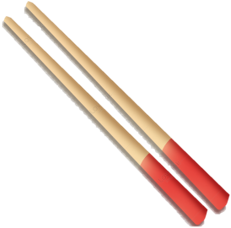
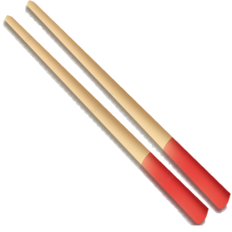
Update game

Changed region(s): [[0.0, 0.0, 1.0, 1.0], [0.6364, 0.4912, 0.6667, 0.5219], [0.6061, 0.4605, 0.6364, 0.4912]]

diff --git a/data.js b/data.js
@@ -1,1 +1,1 @@
-{"project": [null,null,[[0,true,false,false,false,false,false,false,false,false],[1,true,false,false,false,false,false,false,false,false],[2,true,false,false,false,false,false,false,false,false],[3,false,true,true,true,true,true,true,true,false],[4,false,true,true,true,true,true,true,true,false]],[["t0",3,false,[],0,0,null,null,[],false,false,758952807745472,[],null],["t1",0,false,[],0,0,null,null,[],false,false,304194040986138,[],null,[0,0,0,1,1,600,600,10000,1]],["t2",4,false,[880117637316250,258682065947000],1,0,null,[["Default",5,false,1,0,false,161490361910187,[["images/picture-sheet0.png",42643,0,0,267,169,1,0.4719101190567017,0.4970414340496063,[],[-0.2734081149101257,-0.4319526255130768,-1.192092895507813e-007,-0.4852071404457092,0.2396999001502991,-0.3786984384059906,0.3108618855476379,-4.470348358154297e-007,0.217228889465332,0.3431955873966217,-1.192092895507813e-007,0.485207587480545,-0.2659171223640442,0.4201185405254364,-0.4419476091861725,-4.470348358154297e-007],0]]]],[["DragDrop",5,526848452367719]],false,false,719864591994140,[],null],["t3",4,false,[367455491155574,708974555632314],1,0,null,[["Default",5,false,1,0,false,791466204812675,[["images/picture2-sheet0.png",31757,0,0,231,228,1,0.4978354871273041,0.5131579041481018,[],[-4.76837158203125e-007,-0.1491228938102722,0.1515155136585236,1.192092895507813e-007,-4.76837158203125e-007,0.1315791010856628,-0.06493547558784485,0.06578910350799561,-0.1168834865093231,1.192092895507813e-007],0]]]],[["DragDrop",5,728666820223775]],false,false,539551775043601,[],null],["t4",4,false,[419271850889746,145424484009355],1,0,null,[["Default",5,false,1,0,false,182404753608381,[["images/picture3-sheet0.png",44260,0,0,239,137,1,0.5104602575302124,0.4671532809734345,[],[-0.4476987719535828,-0.4379561841487885,-2.384185791015625e-007,-0.4525547921657562,0.447698712348938,-0.4379561841487885,0.4184097647666931,-0.007299274206161499,0.3221757411956787,0.2116787135601044,-2.384185791015625e-007,0.5036497116088867,-0.3305442631244659,0.2262777388095856,-0.4393305480480194,-0.007299274206161499],0]]]],[["DragDrop",5,108483363206075]],false,false,856085363938727,[],null],["t5",4,false,[978312823957790,630210443195443],1,0,null,[["Default",5,false,1,0,false,312982767207911,[["images/picture4-sheet0.png",16001,0,0,163,127,1,0.4846625626087189,0.5196850299835205,[],[0.03067442774772644,0.3149609565734863,4.470348358154297e-007,-0.007874011993408203,0.1472394168376923,0.08661395311355591,0.006134450435638428,-0.007874011993408203,0.4969324171543121,0.3543309569358826,4.470348358154297e-007,0.1732279658317566,-0.1656445562839508,-0.07086601853370667,-0.1104295551776886,-0.007874011993408203],0]]]],[["DragDrop",5,832456752016560]],false,false,180601912341172,[],null],["t6",4,false,[633130684145986,296045401637706],1,0,null,[["Default",5,false,1,0,false,998468661068699,[["images/picture5-sheet0.png",172336,0,0,562,226,1,0.5035586953163147,0.5840708017349243,[],[-0.3647686839103699,-0.3008848130702972,-0.001779675483703613,-0.5575221180915833,0.4217082858085632,-0.4469028115272522,0.4359433054924011,-0.004424810409545898,0.3131673336029053,0.1725661754608154,-0.001779675483703613,0.3805311918258667,-0.3807826936244965,0.3362832069396973,-0.4964412450790405,-0.004424810409545898],0]]]],[["DragDrop",5,743023328663409]],false,false,580973116541272,[],null],["t7",4,false,[273569312819035,120019885290389],1,0,null,[["Default",5,false,1,0,false,480535873952502,[["images/picture6-sheet0.png",18031,0,0,309,242,1,0.5016181468963623,0.5,[],[-0.2815531492233276,-0.2190079987049103,0.3203878402709961,-0.2727270126342773,-0.01294514536857605,0,0.05825287103652954,-0.06198298931121826,-0.003236144781112671,-0.02066099643707275,-0.3333331346511841,0.2851240038871765,-0.1391581594944,0],0]]]],[["DragDrop",5,285756855063493]],false,false,144544888486671,[],null],["t8",4,false,[412029288252766,199894164066487],1,0,null,[["Default",5,false,1,0,false,148366762921232,[["images/picture7-sheet0.png",52498,0,0,161,188,1,0.4968944191932678,0.5159574747085571,[],[-0.3850934207439423,-0.3297874927520752,-0.006211429834365845,-0.5000000596046448,0.4906835556030273,-0.4255319833755493,0.3540375828742981,0.3031915426254273,-0.006211429834365845,0.4734045267105103,-0.3291923999786377,0.2765955328941345,-0.484472006559372,-0.005319476127624512],0]]]],[["DragDrop",5,859029176529969]],false,false,398822271926673,[],null],["t9",4,false,[457779110546885,975947945891977],1,0,null,[["Default",5,false,1,0,false,400784691550442,[["images/picture8-sheet0.png",26521,0,0,70,181,1,1.028571486473084,0.5027624368667603,[],[-0.8285714983940125,-0.3204424381256104,-0.05714249610900879,0.01657456159591675,-0.05714249610900879,-0.02209943532943726,-0.9714285731315613,0.3701655864715576,-1.00000011920929,-0.005524426698684692],0]]]],[["DragDrop",5,307916876839526]],false,false,166756719572038,[],null],["t10",4,false,[553123457011088,416470327016144],1,0,null,[["Default",5,false,1,0,false,950831044915499,[["images/picture9-sheet0.png",61405,0,0,266,187,1,0.5037593841552734,0.5026738047599793,[],[-0.2819553911685944,-0.4010698199272156,-0.003759384155273438,-0.4919786155223846,0.2781956195831299,-0.4010698199272156,0.4849626421928406,-0.00534781813621521,0.2218046188354492,0.3155081868171692,-0.003759384155273438,0.4866312146186829,-0.2368423938751221,0.331551194190979,-0.4962405860424042,-0.00534781813621521],0]]]],[["DragDrop",5,243118845726311]],false,false,851911368548480,[],null],["t11",4,false,[272918215863493,320261006038002],1,0,null,[["Default",5,false,1,0,false,686301692185555,[["images/picture10-sheet0.png",103833,0,0,160,350,1,0.4937500059604645,0.4942857027053833,[],[-0.425000011920929,-0.1942856907844544,0,-0.491428554058075,0.4249999821186066,-0.1942856907844544,0.4187500178813934,2.980232238769531e-007,0.4374999701976776,0.2000002861022949,0,0.4971432685852051,-0.4125000238418579,0.1885712742805481,-0.46875,2.980232238769531e-007],0]]]],[["DragDrop",5,282929515939813]],false,false,938012944477692,[],null],["t12",4,false,[597997625599359,285558642374357],1,0,null,[["Default",5,false,1,0,false,549388361556138,[["images/picture11-sheet0.png",39040,0,0,178,167,1,0.5,0.5029940009117127,[],[-0.4382022023200989,-0.473053902387619,0,-0.4910179972648621,0.3202250003814697,-0.3473049998283386,0.4157299995422363,-0.005988001823425293,0.1910110116004944,0.2035930156707764,0,0.4730539917945862,-0.3314610123634338,0.3532930016517639,-0.4438202083110809,-0.005988001823425293],0]]]],[["DragDrop",5,431435294502538]],false,false,232355410705703,[],null],["t13",4,false,[],0,0,null,[["Default",5,false,1,0,false,928679940544440,[["images/đồuống2-sheet0.png",337253,0,0,842,519,1,0.5,0.5009633898735046,[],[],0]]]],[],false,false,562976183525877,[],null],["t14",4,false,[],0,0,null,[["Default",5,false,1,0,false,680313411329266,[["images/doan2-sheet0.png",181727,0,0,555,260,1,0.50090092420578,0.5,[],[],0]]]],[],false,false,367976890709774,[],null],["t15",2,false,[],0,0,null,null,[],false,false,471340663003044,[],null,[1]],["t16",4,false,[],0,0,null,[["Default",5,false,1,0,false,908470058693323,[["images/drop1-sheet0.png",2324,0,0,554,706,1,0.5,0.5,[],[],0]]]],[],false,false,951040031261666,[],null],["t17",4,false,[],0,0,null,[["Default",5,false,1,0,false,307940948290142,[["images/sprite-sheet0.png",878,0,0,250,250,1,0.5,0.5,[],[],0]]]],[],false,false,100898516773176,[],null],["t18",4,false,[],0,0,null,[["Default",5,false,1,0,false,457826516703132,[["images/sprite-sheet0.png",878,0,0,250,250,1,0.5,0.5,[],[],0]]]],[],false,false,599232031842195,[],null],["t19",1,false,[],0,0,null,null,[],false,false,403400636331800,[],null,[]],["t20",4,false,[],0,0,null,[["Default",5,false,1,0,false,967463786888508,[["images/sprite-sheet0.png",878,0,0,250,250,1,0.5,0.5,[],[],0]]]],[],false,false,971871722701439,[],null],["t21",4,false,[],0,0,null,[["Default",5,false,1,0,false,334375490575475,[["images/drop4-sheet0.png",1634,0,0,554,706,1,0.5,0.5,[],[],0]]]],[],false,false,799054697084983,[],null],["t22",4,false,[],0,0,null,[["Default",5,false,1,0,false,139900385488893,[["images/drop2-sheet0.png",1624,0,0,552,704,1,0.5,0.5,[],[],0]]]],[],false,false,855535730701749,[],null],["t23",4,false,[],0,0,null,[["Default",5,false,1,0,false,813898504579601,[["images/drop2-sheet0.png",1624,0,0,552,704,1,0.5,0.5,[],[],0]]]],[],false,false,107494145794795,[],null],["t24",4,false,[],0,0,null,[["Default",5,false,1,0,false,189306315590653,[["images/drop2-sheet0.png",1624,0,0,552,704,1,0.5,0.5,[],[],0]]]],[],false,false,464055983102478,[],null],["t25",4,false,[],0,0,null,[["Default",5,false,1,0,false,829555271164630,[["images/drop2-sheet0.png",1624,0,0,552,704,1,0.5,0.5,[],[],0]]]],[],false,false,185359933300704,[],null],["t26",4,false,[],0,0,null,[["Default",5,false,1,0,false,358537103234280,[["images/drop2-sheet0.png",1624,0,0,552,704,1,0.5,0.5,[],[],0]]]],[],false,false,948495603532129,[],null],["t27",4,false,[],0,0,null,[["Default",5,false,1,0,false,146386921051832,[["images/drop2-sheet0.png",1624,0,0,552,704,1,0.5,0.5,[],[],0]]]],[],false,false,806094551044494,[],null],["t28",4,false,[],0,0,null,[["Default",5,false,1,0,false,492313599937822,[["images/drop2-sheet0.png",1624,0,0,552,704,1,0.5,0.5,[],[],0]]]],[],false,false,702584297661413,[],null],["t29",4,false,[],0,0,null,[["Default",5,false,1,0,false,913613186286233,[["images/drop2-sheet0.png",1624,0,0,552,704,1,0.5,0.5,[],[],0]]]],[],false,false,804774259817326,[],null],["t30",4,false,[],0,0,null,[["Default",5,false,1,0,false,311484323061630,[["images/drop2-sheet0.png",1624,0,0,552,704,1,0.5,0.5,[],[],0]]]],[],false,false,103535011186286,[],null],["t31",4,false,[],0,0,null,[["Default",5,false,1,0,false,963727945313815,[["images/backgroundsango-sheet0.png",1209154,0,0,900,600,1,0.5,0.5,[],[],0]]]],[],false,false,359538620993692,[],null],["t32",4,true,[],0,0,null,null,[],false,false,634277683134452,[],null],["t33",4,true,[],0,0,null,null,[],false,false,393079002617090,[],null]],[[32,2,3,4,5,6,7],[33,11,12,8,9,10]],[["Layout 1",1280,900,false,"Event sheet 1",655722941916398,[["Layer 0",0,898724898300914,true,[255,255,255],false,1,1,1,false,false,1,0,0,[[[179,3,0,912,96,0,0,1,0,0,0,0,[]],0,5,[],[],["Xếp Hình Đúng Ô",0,"bold italic 48pt Times New Roman","rgb(0,0,0)",1,1,0,0,0]],[[192,79,0,161,57,0,0,1,0,0,0,0,[]],0,0,[],[],["Đồ để ăn",0,"bold italic 26pt Times New Roman","rgb(0,0,0)",1,1,0,0,0]],[[855,79,0,221,57,0,0,1,0,0,0,0,[]],0,1,[],[],["Đồ để uống",0,"bold italic 26pt Times New Roman","rgb(0,0,0)",1,1,0,0,0]],[[966,300.5337219238281,0,606,343,0,0,1,0.5,0.5009633898735046,0,0,[]],13,18,[],[],[0,"Default",0,1]],[[330.9585571289063,299.5,0,646,338,0,0,1,0.50090092420578,0.5,0,0,[]],14,2,[],[],[0,"Default",0,1]],[[110,211,0,120,120,0,0,1,0.5,0.5,0,0,[]],16,11,[],[],[0,"Default",0,1]],[[331,210,0,120,120,0,0,1,0.5,0.5,0,0,[]],21,19,[],[],[0,"Default",0,1]],[[552,217,0,120,120,0,0,1,0.5,0.5,0,0,[]],22,20,[],[],[0,"Default",0,1]],[[339,365,0,120,120,0,0,1,0.5,0.5,0,0,[]],23,21,[],[],[0,"Default",0,1]],[[113,361,0,120,120,0,0,1,0.5,0.5,0,0,[]],24,22,[],[],[0,"Default",0,1]],[[751,205,0,81,120,0,0,1,0.5,0.5,0,0,[]],25,23,[],[],[0,"Default",0,1]],[[1189,202,0,120,120,0,0,1,0.5,0.5,0,0,[]],26,24,[],[],[0,"Default",0,1]],[[749,402,0,120,120,0,0,1,0.5,0.5,0,0,[]],27,25,[],[],[0,"Default",0,1]],[[1039,201,0,120,120,0,0,1,0.5,0.5,0,0,[]],28,26,[],[],[0,"Default",0,1]],[[1189,397,0,66,120,0,0,1,0.5,0.5,0,0,[]],29,27,[],[],[0,"Default",0,1]],[[566,366,0,120,120,0,0,1,0.5,0.5,0,0,[]],30,28,[],[],[0,"Default",0,1]],[[352,800,0,140,140,0,0,1,0.4719101190567017,0.4970414340496063,0,0,[]],2,4,[[352],[800]],[[0,1]],[0,"Default",0,1]],[[1168,603,0,140,140,0,0,1,0.5104602575302124,0.4671532809734345,0,0,[]],4,8,[[1168],[603]],[[0,1]],[0,"Default",0,1]],[[1152,787,0,140,140,0,0,1,0.4846625626087189,0.5196850299835205,0,0,[]],5,9,[[1152],[787]],[[0,1]],[0,"Default",0,1]],[[759,617,0,140,140,0,0,1,0.5035586953163147,0.5840708017349243,0,0,[]],6,10,[[759],[617]],[[0,1]],[0,"Default",0,1]],[[633,800,0,140,140,0,0,1,0.5016181468963623,0.5,0,0,[]],7,12,[[633],[800]],[[0,1]],[0,"Default",0,1]],[[95,800,0,140,140,0,0,1,0.4968944191932678,0.5159574747085571,0,0,[]],8,13,[[95],[800]],[[0,1]],[0,"Default",0,1]],[[1019.371398925781,602.5690307617188,0,79,145,0,0,1,1.028571486473084,0.5027624368667603,0,0,[]],9,14,[[1006],[590]],[[0,1]],[0,"Default",0,1]],[[894,786,0,140,140,0,0,1,0.5,0.5029940009117127,0,0,[]],12,17,[[894],[786]],[[0,1]],[0,"Default",0,1]],[[129,611,0,140,140,0,0,1,0.4978354871273041,0.5131579041481018,0,0,[]],3,7,[[113],[606]],[[0,1]],[0,"Default",0,1]],[[323,604,0,140,140,0,0,1,0.5037593841552734,0.5026738047599793,0,0,[]],10,15,[[319],[614]],[[0,1]],[0,"Default",0,1]],[[539.9249877929688,622.9315185546875,0,93,132,0,0,1,0.4937500059604645,0.4942857027053833,0,0,[]],11,16,[[537],[620]],[[0,1]],[0,"Default",0,1]]],[]]],[],[]]],[["Event sheet 1",[[0,null,false,null,970990872926353,[[3,6,"DragDrop",1,false,false,false,582097770037676,false]],[],[[0,null,false,null,190124576332166,[[3,7,null,0,false,false,false,104728027653413,false,[[4,14]]]],[[3,8,null,691361322121649,false,[[0,[20,16,9,false,null]],[0,[20,16,10,false,null]]]]]],[0,null,false,null,673313847945380,[[-1,11,null,0,false,false,false,953832082854237,false]],[[3,8,null,886951718774461,false,[[0,[21,3,false,null,0]],[0,[21,3,false,null,1]]]]]]]],[0,null,false,null,734637655399008,[[10,6,"DragDrop",1,false,false,false,461499334079926,false]],[],[[0,null,false,null,250869704309603,[[10,7,null,0,false,false,false,762955184262769,false,[[4,13]]]],[[10,8,null,209554297420482,false,[[0,[20,28,9,false,null]],[0,[20,28,10,false,null]]]]]],[0,null,false,null,768250771643389,[[-1,11,null,0,false,false,false,838652032784414,false]],[[10,8,null,768438700044835,false,[[0,[21,10,false,null,0]],[0,[21,10,false,null,1]]]]]]]],[0,null,false,null,309609349798172,[[11,6,"DragDrop",1,false,false,false,562055891833956,false]],[],[[0,null,false,null,817157672926987,[[11,7,null,0,false,false,false,241689097883913,false,[[4,13]]]],[[11,8,null,463419418043000,false,[[0,[20,25,9,false,null]],[0,[20,25,10,false,null]]]]]],[0,null,false,null,572452552915291,[[-1,11,null,0,false,false,false,408963911157685,false]],[[11,8,null,396101502506572,false,[[0,[21,11,false,null,0]],[0,[21,11,false,null,1]]]]]]]],[0,null,false,null,848708069813266,[[12,6,"DragDrop",1,false,false,false,860016918875358,false]],[],[[0,null,false,null,406312476548632,[[12,7,null,0,false,false,false,113289550536941,false,[[4,13]]]],[[12,8,null,422585234374957,false,[[0,[20,26,9,false,null]],[0,[20,26,10,false,null]]]]]],[0,null,false,null,700993184988899,[[-1,11,null,0,false,false,false,407314049888027,false]],[[12,8,null,935034596204761,false,[[0,[21,12,false,null,0]],[0,[21,12,false,null,1]]]]]]]],[0,null,false,null,724506709230646,[[4,6,"DragDrop",1,false,false,false,647091907665451,false]],[],[[0,null,false,null,876425736656037,[[4,7,null,0,false,false,false,371461801133465,false,[[4,14]]]],[[4,8,null,685617068370687,false,[[0,[20,23,9,false,null]],[0,[20,23,10,false,null]]]]]],[0,null,false,null,586941122091467,[[-1,11,null,0,false,false,false,878711108736855,false]],[[4,8,null,575320261223562,false,[[0,[21,4,false,null,0]],[0,[21,4,false,null,1]]]]]]]],[0,null,false,null,889054752102766,[[8,6,"DragDrop",1,false,false,false,692901317066006,false]],[],[[0,null,false,null,292917744775832,[[8,7,null,0,false,false,false,546264470491652,false,[[4,13]]]],[[8,8,null,914115192432545,false,[[0,[20,27,9,false,null]],[0,[20,27,10,false,null]]]]]],[0,null,false,null,879375375215325,[[-1,11,null,0,false,false,false,187103075354118,false]],[[8,8,null,659098443675095,false,[[0,[21,8,false,null,0]],[0,[21,8,false,null,1]]]]]]]],[0,null,false,null,716296743806171,[[9,6,"DragDrop",1,false,false,false,703699901445686,false]],[],[[0,null,false,null,710182661991418,[[9,7,null,0,false,false,false,457449532100054,false,[[4,13]]]],[[9,8,null,424051160524779,false,[[0,[20,29,9,false,null]],[0,[20,29,10,false,null]]]]]],[0,null,false,null,675774674776890,[[-1,11,null,0,false,false,false,886376214606075,false]],[[9,8,null,251925091665636,false,[[0,[21,9,false,null,0]],[0,[21,9,false,null,1]]]]]]]],[0,null,false,null,790872838112720,[[7,6,"DragDrop",1,false,false,false,258528994082912,false]],[],[[0,null,false,null,984527786139764,[[7,7,null,0,false,false,false,994010433045702,false,[[4,14]]]],[[7,8,null,357754343054797,false,[[0,[20,30,9,false,null]],[0,[20,30,10,false,null]]]]]],[0,null,false,null,104473239441574,[[-1,11,null,0,false,false,false,782147673978540,false]],[[7,8,null,852819218200357,false,[[0,[21,7,false,null,0]],[0,[21,7,false,null,1]]]]]]]],[0,null,false,null,127754446316323,[[6,6,"DragDrop",1,false,false,false,892956287655900,false]],[],[[0,null,false,null,431439392937544,[[6,7,null,0,false,false,false,924226480428215,false,[[4,14]]]],[[6,8,null,619733542860601,false,[[0,[20,21,9,false,null]],[0,[20,21,10,false,null]]]]]],[0,null,false,null,439655496510447,[[-1,11,null,0,false,false,false,943760134255609,false]],[[6,8,null,386025795331151,false,[[0,[21,6,false,null,0]],[0,[21,6,false,null,1]]]]]]]],[0,null,false,null,391357610510859,[[2,6,"DragDrop",1,false,false,false,659160905074319,false]],[],[[0,null,false,null,631201453976430,[[2,7,null,0,false,false,false,858497610801738,false,[[4,14]]]],[[2,8,null,746749319260713,false,[[0,[20,22,9,false,null]],[0,[20,22,10,false,null]]]]]],[0,null,false,null,915665053311782,[[-1,11,null,0,false,false,false,149505561352001,false]],[[2,8,null,692146501858266,false,[[0,[21,2,false,null,0]],[0,[21,2,false,null,1]]]]]]]],[0,null,false,null,544110807781374,[[5,6,"DragDrop",1,false,false,false,974162365388125,false]],[],[[0,null,false,null,606232519284765,[[5,7,null,0,false,false,false,576636380443288,false,[[4,14]]]],[[5,8,null,247272588599945,false,[[0,[20,24,9,false,null]],[0,[20,24,10,false,null]]]]]],[0,null,false,null,523807477415852,[[-1,11,null,0,false,false,false,152339524135142,false]],[[5,8,null,813137081209495,false,[[0,[21,5,false,null,0]],[0,[21,5,false,null,1]]]]]]]],[0,null,false,null,248263112490861,[[13,12,null,1,false,false,false,533602617081012,false]],[[1,13,null,465391595395895,false,[[2,["music",true]],[3,0],[0,[0,10]],[1,[2,""]]]]]]]]],[],"media/",false,1280,900,4,true,true,true,"1.0.0.0",true,false,4,0,31,false,true,1,true,"New project",0,[]]}
+{"project": [null,null,[[0,true,false,false,false,false,false,false,false,false],[1,true,false,false,false,false,false,false,false,false],[2,true,false,false,false,false,false,false,false,false],[3,false,true,true,true,true,true,true,true,false],[4,false,true,true,true,true,true,true,true,false]],[["t0",3,false,[],0,0,null,null,[],false,false,758952807745472,[],null],["t1",0,false,[],0,0,null,null,[],false,false,304194040986138,[],null,[0,0,0,1,1,600,600,10000,1]],["t2",4,false,[880117637316250,258682065947000],1,0,null,[["Default",5,false,1,0,false,161490361910187,[["images/picture-sheet0.png",42643,0,0,267,169,1,0.4719101190567017,0.4970414340496063,[],[-0.2734081149101257,-0.4319526255130768,-1.192092895507813e-007,-0.4852071404457092,0.2396999001502991,-0.3786984384059906,0.3108618855476379,-4.470348358154297e-007,0.217228889465332,0.3431955873966217,-1.192092895507813e-007,0.485207587480545,-0.2659171223640442,0.4201185405254364,-0.4419476091861725,-4.470348358154297e-007],0]]]],[["DragDrop",5,526848452367719]],false,false,719864591994140,[],null],["t3",4,false,[367455491155574,708974555632314],1,0,null,[["Default",5,false,1,0,false,791466204812675,[["images/picture2-sheet0.png",31780,0,0,232,232,1,0.4956896603107452,0.5129310488700867,[],[0.002145349979400635,-0.1488960385322571,0.1536613404750824,0.0002269744873046875,0.002145349979400635,0.131805956363678,-0.06278964877128601,0.06601595878601074,-0.1147376596927643,0.0002269744873046875],0]]]],[["DragDrop",5,728666820223775]],false,false,539551775043601,[],null],["t4",4,false,[419271850889746,145424484009355],1,0,null,[["Default",5,false,1,0,false,182404753608381,[["images/picture3-sheet0.png",44260,0,0,239,137,1,0.5104602575302124,0.4671532809734345,[],[-0.4476987719535828,-0.4379561841487885,-2.384185791015625e-007,-0.4525547921657562,0.447698712348938,-0.4379561841487885,0.4184097647666931,-0.007299274206161499,0.3221757411956787,0.2116787135601044,-2.384185791015625e-007,0.5036497116088867,-0.3305442631244659,0.2262777388095856,-0.4393305480480194,-0.007299274206161499],0]]]],[["DragDrop",5,108483363206075]],false,false,856085363938727,[],null],["t5",4,false,[978312823957790,630210443195443],1,0,null,[["Default",5,false,1,0,false,312982767207911,[["images/picture4-sheet0.png",16001,0,0,163,127,1,0.4846625626087189,0.5196850299835205,[],[0.03067442774772644,0.3149609565734863,4.470348358154297e-007,-0.007874011993408203,0.1472394168376923,0.08661395311355591,0.006134450435638428,-0.007874011993408203,0.4969324171543121,0.3543309569358826,4.470348358154297e-007,0.1732279658317566,-0.1656445562839508,-0.07086601853370667,-0.1104295551776886,-0.007874011993408203],0]]]],[["DragDrop",5,832456752016560]],false,false,180601912341172,[],null],["t6",4,false,[633130684145986,296045401637706],1,0,null,[["Default",5,false,1,0,false,998468661068699,[["images/picture5-sheet0.png",172336,0,0,562,226,1,0.5035586953163147,0.5840708017349243,[],[-0.3647686839103699,-0.3008848130702972,-0.001779675483703613,-0.5575221180915833,0.4217082858085632,-0.4469028115272522,0.4359433054924011,-0.004424810409545898,0.3131673336029053,0.1725661754608154,-0.001779675483703613,0.3805311918258667,-0.3807826936244965,0.3362832069396973,-0.4964412450790405,-0.004424810409545898],0]]]],[["DragDrop",5,743023328663409]],false,false,580973116541272,[],null],["t7",4,false,[273569312819035,120019885290389],1,0,null,[["Default",5,false,1,0,false,480535873952502,[["images/picture6-sheet0.png",18031,0,0,309,242,1,0.5016181468963623,0.5,[],[-0.2815531492233276,-0.2190079987049103,0.3203878402709961,-0.2727270126342773,-0.01294514536857605,0,0.05825287103652954,-0.06198298931121826,-0.003236144781112671,-0.02066099643707275,-0.3333331346511841,0.2851240038871765,-0.1391581594944,0],0]]]],[["DragDrop",5,285756855063493]],false,false,144544888486671,[],null],["t8",4,false,[412029288252766,199894164066487],1,0,null,[["Default",5,false,1,0,false,148366762921232,[["images/picture7-sheet0.png",52498,0,0,161,188,1,0.4968944191932678,0.5159574747085571,[],[-0.3850934207439423,-0.3297874927520752,-0.006211429834365845,-0.5000000596046448,0.4906835556030273,-0.4255319833755493,0.3540375828742981,0.3031915426254273,-0.006211429834365845,0.4734045267105103,-0.3291923999786377,0.2765955328941345,-0.484472006559372,-0.005319476127624512],0]]]],[["DragDrop",5,859029176529969]],false,false,398822271926673,[],null],["t9",4,false,[457779110546885,975947945891977],1,0,null,[["Default",5,false,1,0,false,400784691550442,[["images/picture8-sheet0.png",26521,0,0,70,181,1,1.028571486473084,0.5027624368667603,[],[-0.8285714983940125,-0.3204424381256104,-0.05714249610900879,0.01657456159591675,-0.05714249610900879,-0.02209943532943726,-0.9714285731315613,0.3701655864715576,-1.00000011920929,-0.005524426698684692],0]]]],[["DragDrop",5,307916876839526]],false,false,166756719572038,[],null],["t10",4,false,[553123457011088,416470327016144],1,0,null,[["Default",5,false,1,0,false,950831044915499,[["images/picture9-sheet0.png",61405,0,0,266,187,1,0.5037593841552734,0.5026738047599793,[],[-0.2819553911685944,-0.4010698199272156,-0.003759384155273438,-0.4919786155223846,0.2781956195831299,-0.4010698199272156,0.4849626421928406,-0.00534781813621521,0.2218046188354492,0.3155081868171692,-0.003759384155273438,0.4866312146186829,-0.2368423938751221,0.331551194190979,-0.4962405860424042,-0.00534781813621521],0]]]],[["DragDrop",5,243118845726311]],false,false,851911368548480,[],null],["t11",4,false,[272918215863493,320261006038002],1,0,null,[["Default",5,false,1,0,false,686301692185555,[["images/picture10-sheet0.png",103833,0,0,160,350,1,0.4937500059604645,0.4942857027053833,[],[-0.425000011920929,-0.1942856907844544,0,-0.491428554058075,0.4249999821186066,-0.1942856907844544,0.4187500178813934,2.980232238769531e-007,0.4374999701976776,0.2000002861022949,0,0.4971432685852051,-0.4125000238418579,0.1885712742805481,-0.46875,2.980232238769531e-007],0]]]],[["DragDrop",5,282929515939813]],false,false,938012944477692,[],null],["t12",4,false,[597997625599359,285558642374357],1,0,null,[["Default",5,false,1,0,false,549388361556138,[["images/picture11-sheet0.png",39040,0,0,178,167,1,0.5,0.5029940009117127,[],[-0.4382022023200989,-0.473053902387619,0,-0.4910179972648621,0.3202250003814697,-0.3473049998283386,0.4157299995422363,-0.005988001823425293,0.1910110116004944,0.2035930156707764,0,0.4730539917945862,-0.3314610123634338,0.3532930016517639,-0.4438202083110809,-0.005988001823425293],0]]]],[["DragDrop",5,431435294502538]],false,false,232355410705703,[],null],["t13",4,false,[],0,0,null,[["Default",5,false,1,0,false,928679940544440,[["images/đồuống2-sheet0.png",337253,0,0,842,519,1,0.5,0.5009633898735046,[],[],0]]]],[],false,false,562976183525877,[],null],["t14",4,false,[],0,0,null,[["Default",5,false,1,0,false,680313411329266,[["images/doan2-sheet0.png",181727,0,0,555,260,1,0.50090092420578,0.5,[],[],0]]]],[],false,false,367976890709774,[],null],["t15",2,false,[],0,0,null,null,[],false,false,471340663003044,[],null,[1]],["t16",4,false,[],0,0,null,[["Default",5,false,1,0,false,908470058693323,[["images/drop1-sheet0.png",2324,0,0,554,706,1,0.5,0.5,[],[],0]]]],[],false,false,951040031261666,[],null],["t17",4,false,[],0,0,null,[["Default",5,false,1,0,false,307940948290142,[["images/sprite-sheet0.png",878,0,0,250,250,1,0.5,0.5,[],[],0]]]],[],false,false,100898516773176,[],null],["t18",4,false,[],0,0,null,[["Default",5,false,1,0,false,457826516703132,[["images/sprite-sheet0.png",878,0,0,250,250,1,0.5,0.5,[],[],0]]]],[],false,false,599232031842195,[],null],["t19",1,false,[],0,0,null,null,[],false,false,403400636331800,[],null,[]],["t20",4,false,[],0,0,null,[["Default",5,false,1,0,false,967463786888508,[["images/sprite-sheet0.png",878,0,0,250,250,1,0.5,0.5,[],[],0]]]],[],false,false,971871722701439,[],null],["t21",4,false,[],0,0,null,[["Default",5,false,1,0,false,334375490575475,[["images/drop4-sheet0.png",1634,0,0,554,706,1,0.5,0.5,[],[],0]]]],[],false,false,799054697084983,[],null],["t22",4,false,[],0,0,null,[["Default",5,false,1,0,false,139900385488893,[["images/drop2-sheet0.png",1624,0,0,552,704,1,0.5,0.5,[],[],0]]]],[],false,false,855535730701749,[],null],["t23",4,false,[],0,0,null,[["Default",5,false,1,0,false,813898504579601,[["images/drop2-sheet0.png",1624,0,0,552,704,1,0.5,0.5,[],[],0]]]],[],false,false,107494145794795,[],null],["t24",4,false,[],0,0,null,[["Default",5,false,1,0,false,189306315590653,[["images/drop2-sheet0.png",1624,0,0,552,704,1,0.5,0.5,[],[],0]]]],[],false,false,464055983102478,[],null],["t25",4,false,[],0,0,null,[["Default",5,false,1,0,false,829555271164630,[["images/drop2-sheet0.png",1624,0,0,552,704,1,0.5,0.5,[],[],0]]]],[],false,false,185359933300704,[],null],["t26",4,false,[],0,0,null,[["Default",5,false,1,0,false,358537103234280,[["images/drop2-sheet0.png",1624,0,0,552,704,1,0.5,0.5,[],[],0]]]],[],false,false,948495603532129,[],null],["t27",4,false,[],0,0,null,[["Default",5,false,1,0,false,146386921051832,[["images/drop2-sheet0.png",1624,0,0,552,704,1,0.5,0.5,[],[],0]]]],[],false,false,806094551044494,[],null],["t28",4,false,[],0,0,null,[["Default",5,false,1,0,false,492313599937822,[["images/drop2-sheet0.png",1624,0,0,552,704,1,0.5,0.5,[],[],0]]]],[],false,false,702584297661413,[],null],["t29",4,false,[],0,0,null,[["Default",5,false,1,0,false,913613186286233,[["images/drop2-sheet0.png",1624,0,0,552,704,1,0.5,0.5,[],[],0]]]],[],false,false,804774259817326,[],null],["t30",4,false,[],0,0,null,[["Default",5,false,1,0,false,311484323061630,[["images/drop2-sheet0.png",1624,0,0,552,704,1,0.5,0.5,[],[],0]]]],[],false,false,103535011186286,[],null],["t31",4,false,[],0,0,null,[["Default",5,false,1,0,false,963727945313815,[["images/backgroundsango-sheet0.png",1209154,0,0,900,600,1,0.5,0.5,[],[],0]]]],[],false,false,359538620993692,[],null],["t32",4,true,[],0,0,null,null,[],false,false,634277683134452,[],null],["t33",4,true,[],0,0,null,null,[],false,false,393079002617090,[],null]],[[32,2,3,4,5,6,7],[33,11,12,8,9,10]],[["Layout 1",1280,900,false,"Event sheet 1",655722941916398,[["Layer 0",0,898724898300914,true,[255,255,255],false,1,1,1,false,false,1,0,0,[[[179,3,0,912,96,0,0,1,0,0,0,0,[]],0,5,[],[],["Xếp Hình Đúng Ô",0,"bold italic 48pt Times New Roman","rgb(0,0,0)",1,1,0,0,0]],[[192,79,0,161,57,0,0,1,0,0,0,0,[]],0,0,[],[],["Đồ để ăn",0,"bold italic 26pt Times New Roman","rgb(0,0,0)",1,1,0,0,0]],[[855,79,0,221,57,0,0,1,0,0,0,0,[]],0,1,[],[],["Đồ để uống",0,"bold italic 26pt Times New Roman","rgb(0,0,0)",1,1,0,0,0]],[[966,300.5337219238281,0,606,343,0,0,1,0.5,0.5009633898735046,0,0,[]],13,18,[],[],[0,"Default",0,1]],[[330.9585571289063,299.5,0,646,338,0,0,1,0.50090092420578,0.5,0,0,[]],14,2,[],[],[0,"Default",0,1]],[[110,211,0,120,120,0,0,1,0.5,0.5,0,0,[]],16,11,[],[],[0,"Default",0,1]],[[331,210,0,120,120,0,0,1,0.5,0.5,0,0,[]],21,19,[],[],[0,"Default",0,1]],[[552,217,0,120,120,0,0,1,0.5,0.5,0,0,[]],22,20,[],[],[0,"Default",0,1]],[[339,365,0,120,120,0,0,1,0.5,0.5,0,0,[]],23,21,[],[],[0,"Default",0,1]],[[113,361,0,120,120,0,0,1,0.5,0.5,0,0,[]],24,22,[],[],[0,"Default",0,1]],[[742,205,0,81,120,0,0,1,0.5,0.5,0,0,[]],25,23,[],[],[0,"Default",0,1]],[[1194,202,0,120,120,0,0,1,0.5,0.5,0,0,[]],26,24,[],[],[0,"Default",0,1]],[[747,402,0,120,120,0,0,1,0.5,0.5,0,0,[]],27,25,[],[],[0,"Default",0,1]],[[1059,201,0,120,120,0,0,1,0.5,0.5,0,0,[]],28,26,[],[],[0,"Default",0,1]],[[1197,397,0,66,120,0,0,1,0.5,0.5,0,0,[]],29,27,[],[],[0,"Default",0,1]],[[566,366,0,120,120,0,0,1,0.5,0.5,0,0,[]],30,28,[],[],[0,"Default",0,1]],[[386,784,0,198,108,0,0,1,0.4719101190567017,0.4970414340496063,0,0,[]],2,4,[[386],[784]],[[0,1]],[0,"Default",0,1]],[[1157,603,0,162,78,0,0,1,0.5104602575302124,0.4671532809734345,0,0,[]],4,8,[[1157],[603]],[[0,1]],[0,"Default",0,1]],[[1146,788,0,170,170,0,0,1,0.4846625626087189,0.5196850299835205,0,0,[]],5,9,[[1146],[788]],[[0,1]],[0,"Default",0,1]],[[759,617,0,160,160,0,0,1,0.5035586953163147,0.5840708017349243,0,0,[]],6,10,[[759],[617]],[[0,1]],[0,"Default",0,1]],[[640,792,0,190,190,0,0,1,0.5016181468963623,0.5,0,0,[]],7,12,[[640],[792]],[[0,1]],[0,"Default",0,1]],[[142,791,0,160,160,0,0,1,0.4968944191932678,0.5159574747085571,0,0,[]],8,13,[[142],[791]],[[0,1]],[0,"Default",0,1]],[[1006,590,0,79,144,0,0,1,1.028571486473084,0.5027624368667603,0,0,[]],9,14,[[1006],[590]],[[0,1]],[0,"Default",0,1]],[[926,789,0,160,160,0,0,1,0.5,0.5029940009117127,0,0,[]],12,17,[[926],[789]],[[0,1]],[0,"Default",0,1]],[[367,601,0,160,160,0,0,1,0.5037593841552734,0.5026738047599793,0,0,[]],10,15,[[367],[601]],[[0,1]],[0,"Default",0,1]],[[553,596,0,65,147,0,0,1,0.4937500059604645,0.4942857027053833,0,0,[]],11,16,[[553],[596]],[[0,1]],[0,"Default",0,1]],[[130.3491516113281,602.616455078125,0,200,174,0,0,1,0.4956896603107452,0.5129310488700867,0,0,[]],3,7,[[113],[598]],[[0,1]],[0,"Default",0,1]]],[]]],[],[]]],[["Event sheet 1",[[0,null,false,null,970990872926353,[[3,6,"DragDrop",1,false,false,false,582097770037676,false]],[],[[0,null,false,null,190124576332166,[[3,7,null,0,false,false,false,104728027653413,false,[[4,14]]]],[[3,8,null,691361322121649,false,[[0,[20,16,9,false,null]],[0,[20,16,10,false,null]]]]]],[0,null,false,null,673313847945380,[[-1,11,null,0,false,false,false,953832082854237,false]],[[3,8,null,886951718774461,false,[[0,[21,3,false,null,0]],[0,[21,3,false,null,1]]]]]]]],[0,null,false,null,734637655399008,[[10,6,"DragDrop",1,false,false,false,461499334079926,false]],[],[[0,null,false,null,250869704309603,[[10,7,null,0,false,false,false,762955184262769,false,[[4,13]]]],[[10,8,null,209554297420482,false,[[0,[20,28,9,false,null]],[0,[20,28,10,false,null]]]]]],[0,null,false,null,768250771643389,[[-1,11,null,0,false,false,false,838652032784414,false]],[[10,8,null,768438700044835,false,[[0,[21,10,false,null,0]],[0,[21,10,false,null,1]]]]]]]],[0,null,false,null,309609349798172,[[11,6,"DragDrop",1,false,false,false,562055891833956,false]],[],[[0,null,false,null,817157672926987,[[11,7,null,0,false,false,false,241689097883913,false,[[4,13]]]],[[11,8,null,463419418043000,false,[[0,[20,25,9,false,null]],[0,[20,25,10,false,null]]]]]],[0,null,false,null,572452552915291,[[-1,11,null,0,false,false,false,408963911157685,false]],[[11,8,null,396101502506572,false,[[0,[21,11,false,null,0]],[0,[21,11,false,null,1]]]]]]]],[0,null,false,null,848708069813266,[[12,6,"DragDrop",1,false,false,false,860016918875358,false]],[],[[0,null,false,null,406312476548632,[[12,7,null,0,false,false,false,113289550536941,false,[[4,13]]]],[[12,8,null,422585234374957,false,[[0,[20,26,9,false,null]],[0,[20,26,10,false,null]]]]]],[0,null,false,null,700993184988899,[[-1,11,null,0,false,false,false,407314049888027,false]],[[12,8,null,935034596204761,false,[[0,[21,12,false,null,0]],[0,[21,12,false,null,1]]]]]]]],[0,null,false,null,724506709230646,[[4,6,"DragDrop",1,false,false,false,647091907665451,false]],[],[[0,null,false,null,876425736656037,[[4,7,null,0,false,false,false,371461801133465,false,[[4,14]]]],[[4,8,null,685617068370687,false,[[0,[20,23,9,false,null]],[0,[20,23,10,false,null]]]]]],[0,null,false,null,586941122091467,[[-1,11,null,0,false,false,false,878711108736855,false]],[[4,8,null,575320261223562,false,[[0,[21,4,false,null,0]],[0,[21,4,false,null,1]]]]]]]],[0,null,false,null,889054752102766,[[8,6,"DragDrop",1,false,false,false,692901317066006,false]],[],[[0,null,false,null,292917744775832,[[8,7,null,0,false,false,false,546264470491652,false,[[4,13]]]],[[8,8,null,914115192432545,false,[[0,[20,27,9,false,null]],[0,[20,27,10,false,null]]]]]],[0,null,false,null,879375375215325,[[-1,11,null,0,false,false,false,187103075354118,false]],[[8,8,null,659098443675095,false,[[0,[21,8,false,null,0]],[0,[21,8,false,null,1]]]]]]]],[0,null,false,null,716296743806171,[[9,6,"DragDrop",1,false,false,false,703699901445686,false]],[],[[0,null,false,null,710182661991418,[[9,7,null,0,false,false,false,457449532100054,false,[[4,13]]]],[[9,8,null,424051160524779,false,[[0,[20,29,9,false,null]],[0,[20,29,10,false,null]]]]]],[0,null,false,null,675774674776890,[[-1,11,null,0,false,false,false,886376214606075,false]],[[9,8,null,251925091665636,false,[[0,[21,9,false,null,0]],[0,[21,9,false,null,1]]]]]]]],[0,null,false,null,790872838112720,[[7,6,"DragDrop",1,false,false,false,258528994082912,false]],[],[[0,null,false,null,984527786139764,[[7,7,null,0,false,false,false,994010433045702,false,[[4,14]]]],[[7,8,null,357754343054797,false,[[0,[20,30,9,false,null]],[0,[20,30,10,false,null]]]]]],[0,null,false,null,104473239441574,[[-1,11,null,0,false,false,false,782147673978540,false]],[[7,8,null,852819218200357,false,[[0,[21,7,false,null,0]],[0,[21,7,false,null,1]]]]]]]],[0,null,false,null,127754446316323,[[6,6,"DragDrop",1,false,false,false,892956287655900,false]],[],[[0,null,false,null,431439392937544,[[6,7,null,0,false,false,false,924226480428215,false,[[4,14]]]],[[6,8,null,619733542860601,false,[[0,[20,21,9,false,null]],[0,[20,21,10,false,null]]]]]],[0,null,false,null,439655496510447,[[-1,11,null,0,false,false,false,943760134255609,false]],[[6,8,null,386025795331151,false,[[0,[21,6,false,null,0]],[0,[21,6,false,null,1]]]]]]]],[0,null,false,null,391357610510859,[[2,6,"DragDrop",1,false,false,false,659160905074319,false]],[],[[0,null,false,null,631201453976430,[[2,7,null,0,false,false,false,858497610801738,false,[[4,14]]]],[[2,8,null,746749319260713,false,[[0,[20,22,9,false,null]],[0,[20,22,10,false,null]]]]]],[0,null,false,null,915665053311782,[[-1,11,null,0,false,false,false,149505561352001,false]],[[2,8,null,692146501858266,false,[[0,[21,2,false,null,0]],[0,[21,2,false,null,1]]]]]]]],[0,null,false,null,544110807781374,[[5,6,"DragDrop",1,false,false,false,974162365388125,false]],[],[[0,null,false,null,606232519284765,[[5,7,null,0,false,false,false,576636380443288,false,[[4,14]]]],[[5,8,null,247272588599945,false,[[0,[20,24,9,false,null]],[0,[20,24,10,false,null]]]]]],[0,null,false,null,523807477415852,[[-1,11,null,0,false,false,false,152339524135142,false]],[[5,8,null,813137081209495,false,[[0,[21,5,false,null,0]],[0,[21,5,false,null,1]]]]]]]],[0,null,false,null,248263112490861,[[13,12,null,1,false,false,false,533602617081012,false]],[[1,13,null,465391595395895,false,[[2,["music",true]],[3,0],[0,[0,10]],[1,[2,""]]]]]]]]],[],"media/",false,1280,900,4,true,true,true,"1.0.0.0",true,false,4,0,30,false,true,1,true,"New project",0,[]]}

diff --git a/offline.js b/offline.js
@@ -1,5 +1,5 @@
 {
-	"version": 1731350503,
+	"version": 1731425709,
 	"fileList": [
 		"data.js",
 		"c2runtime.js",
